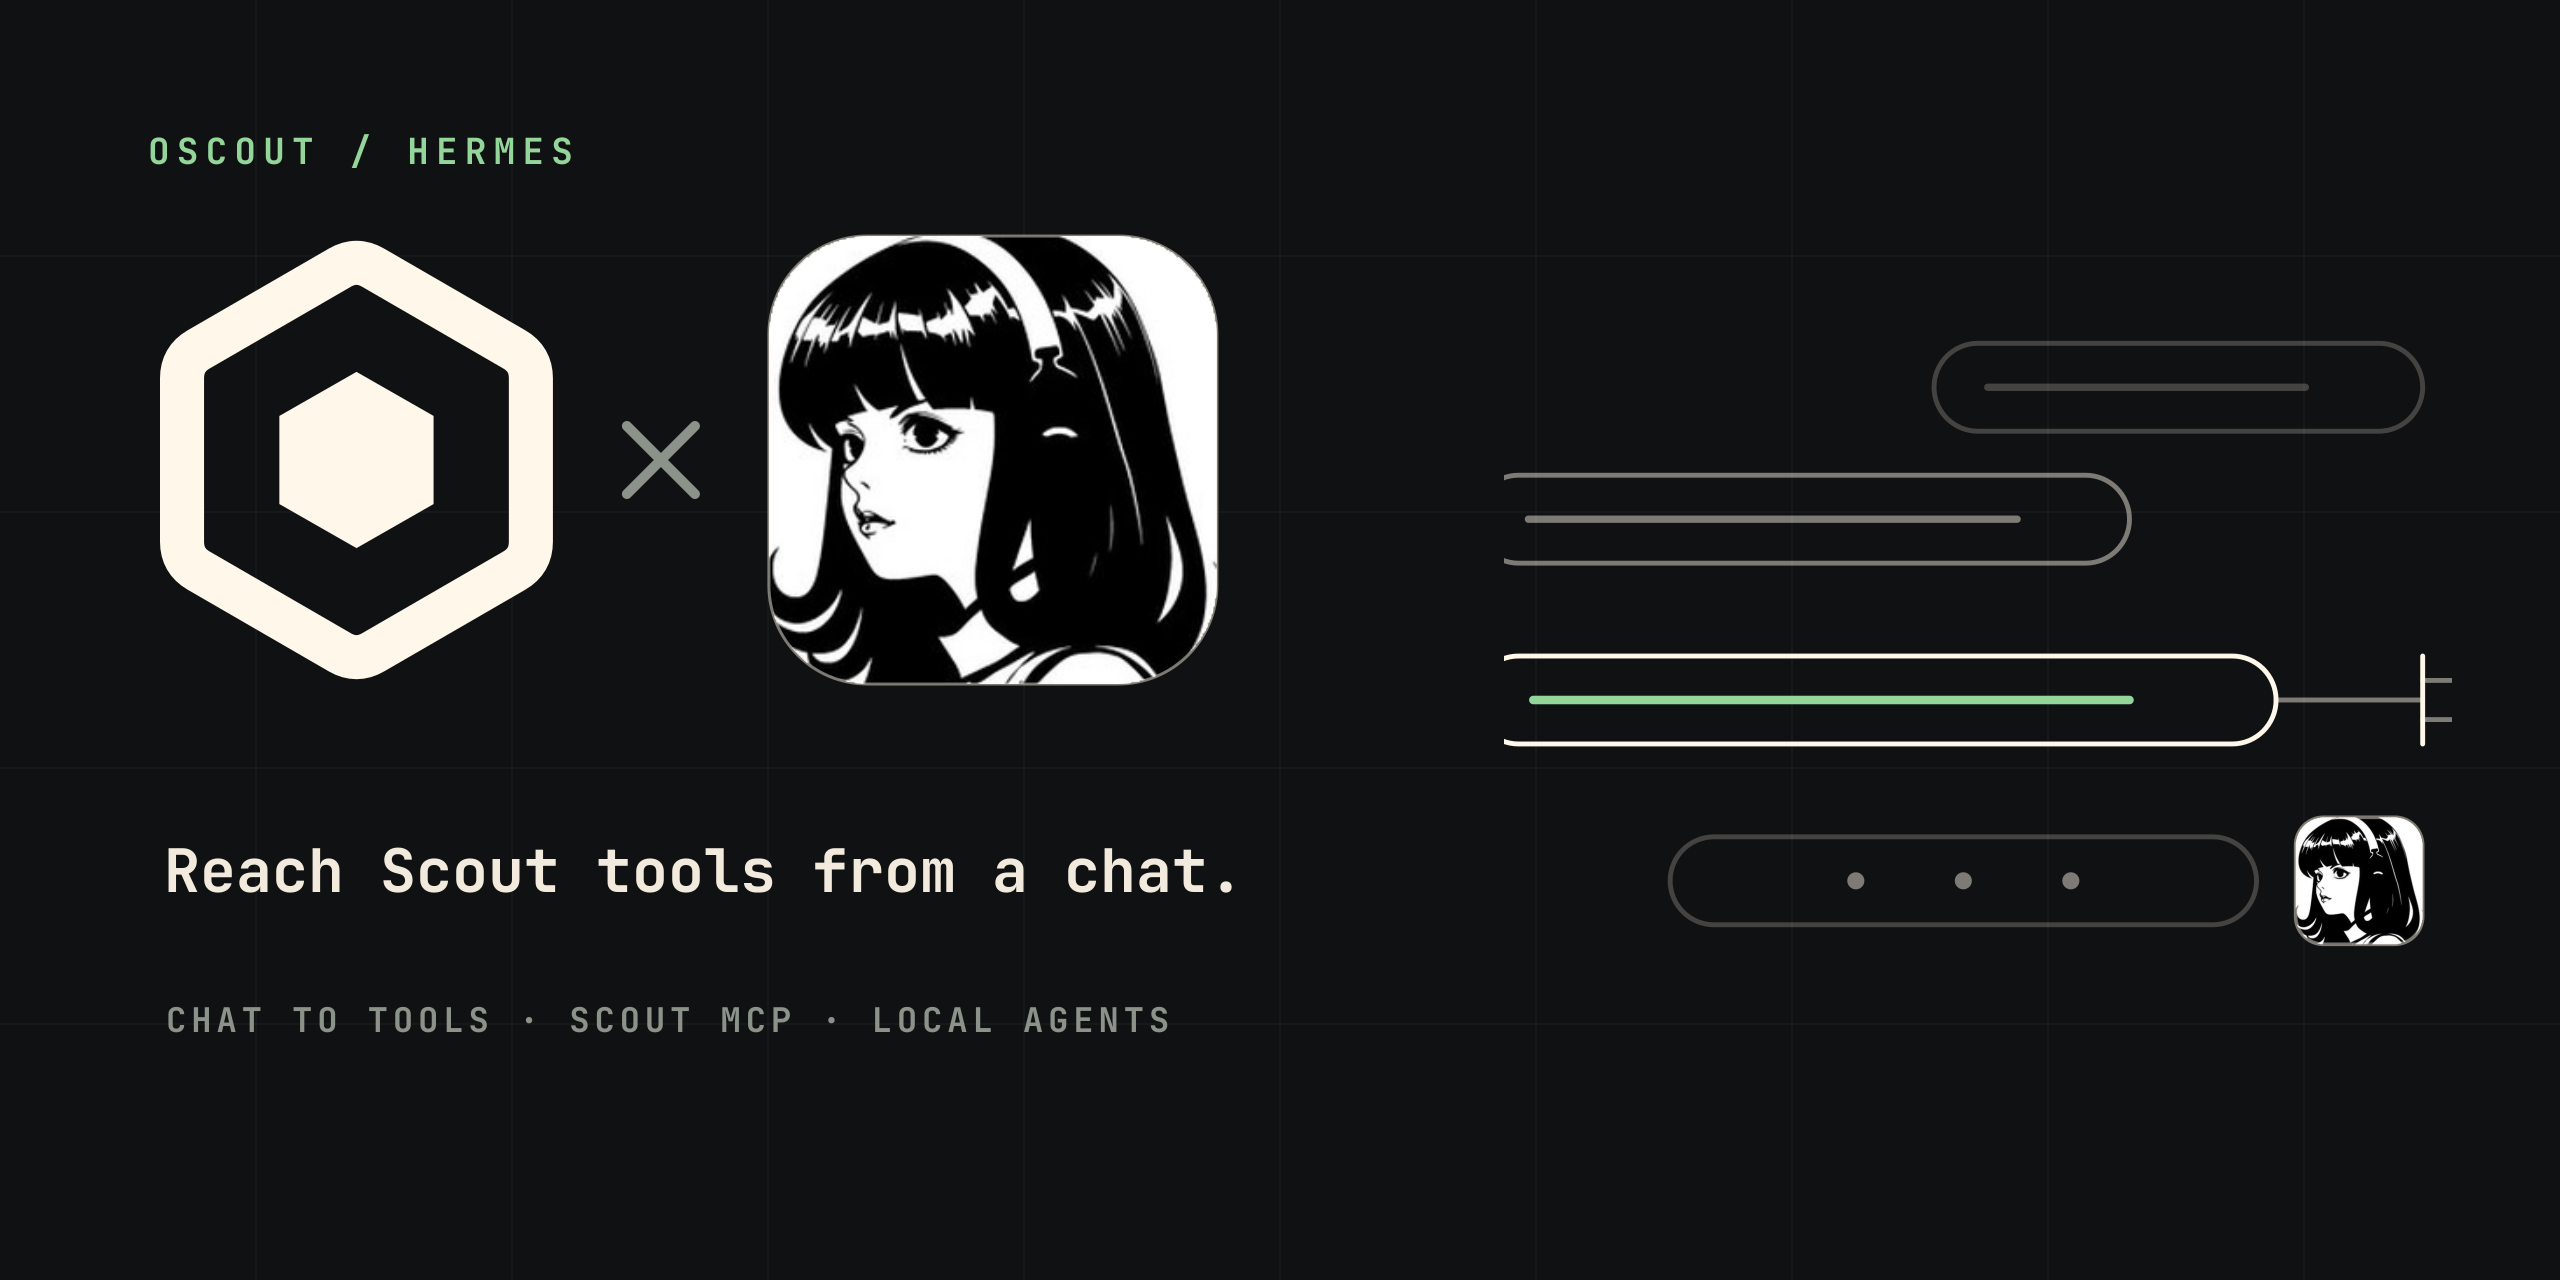
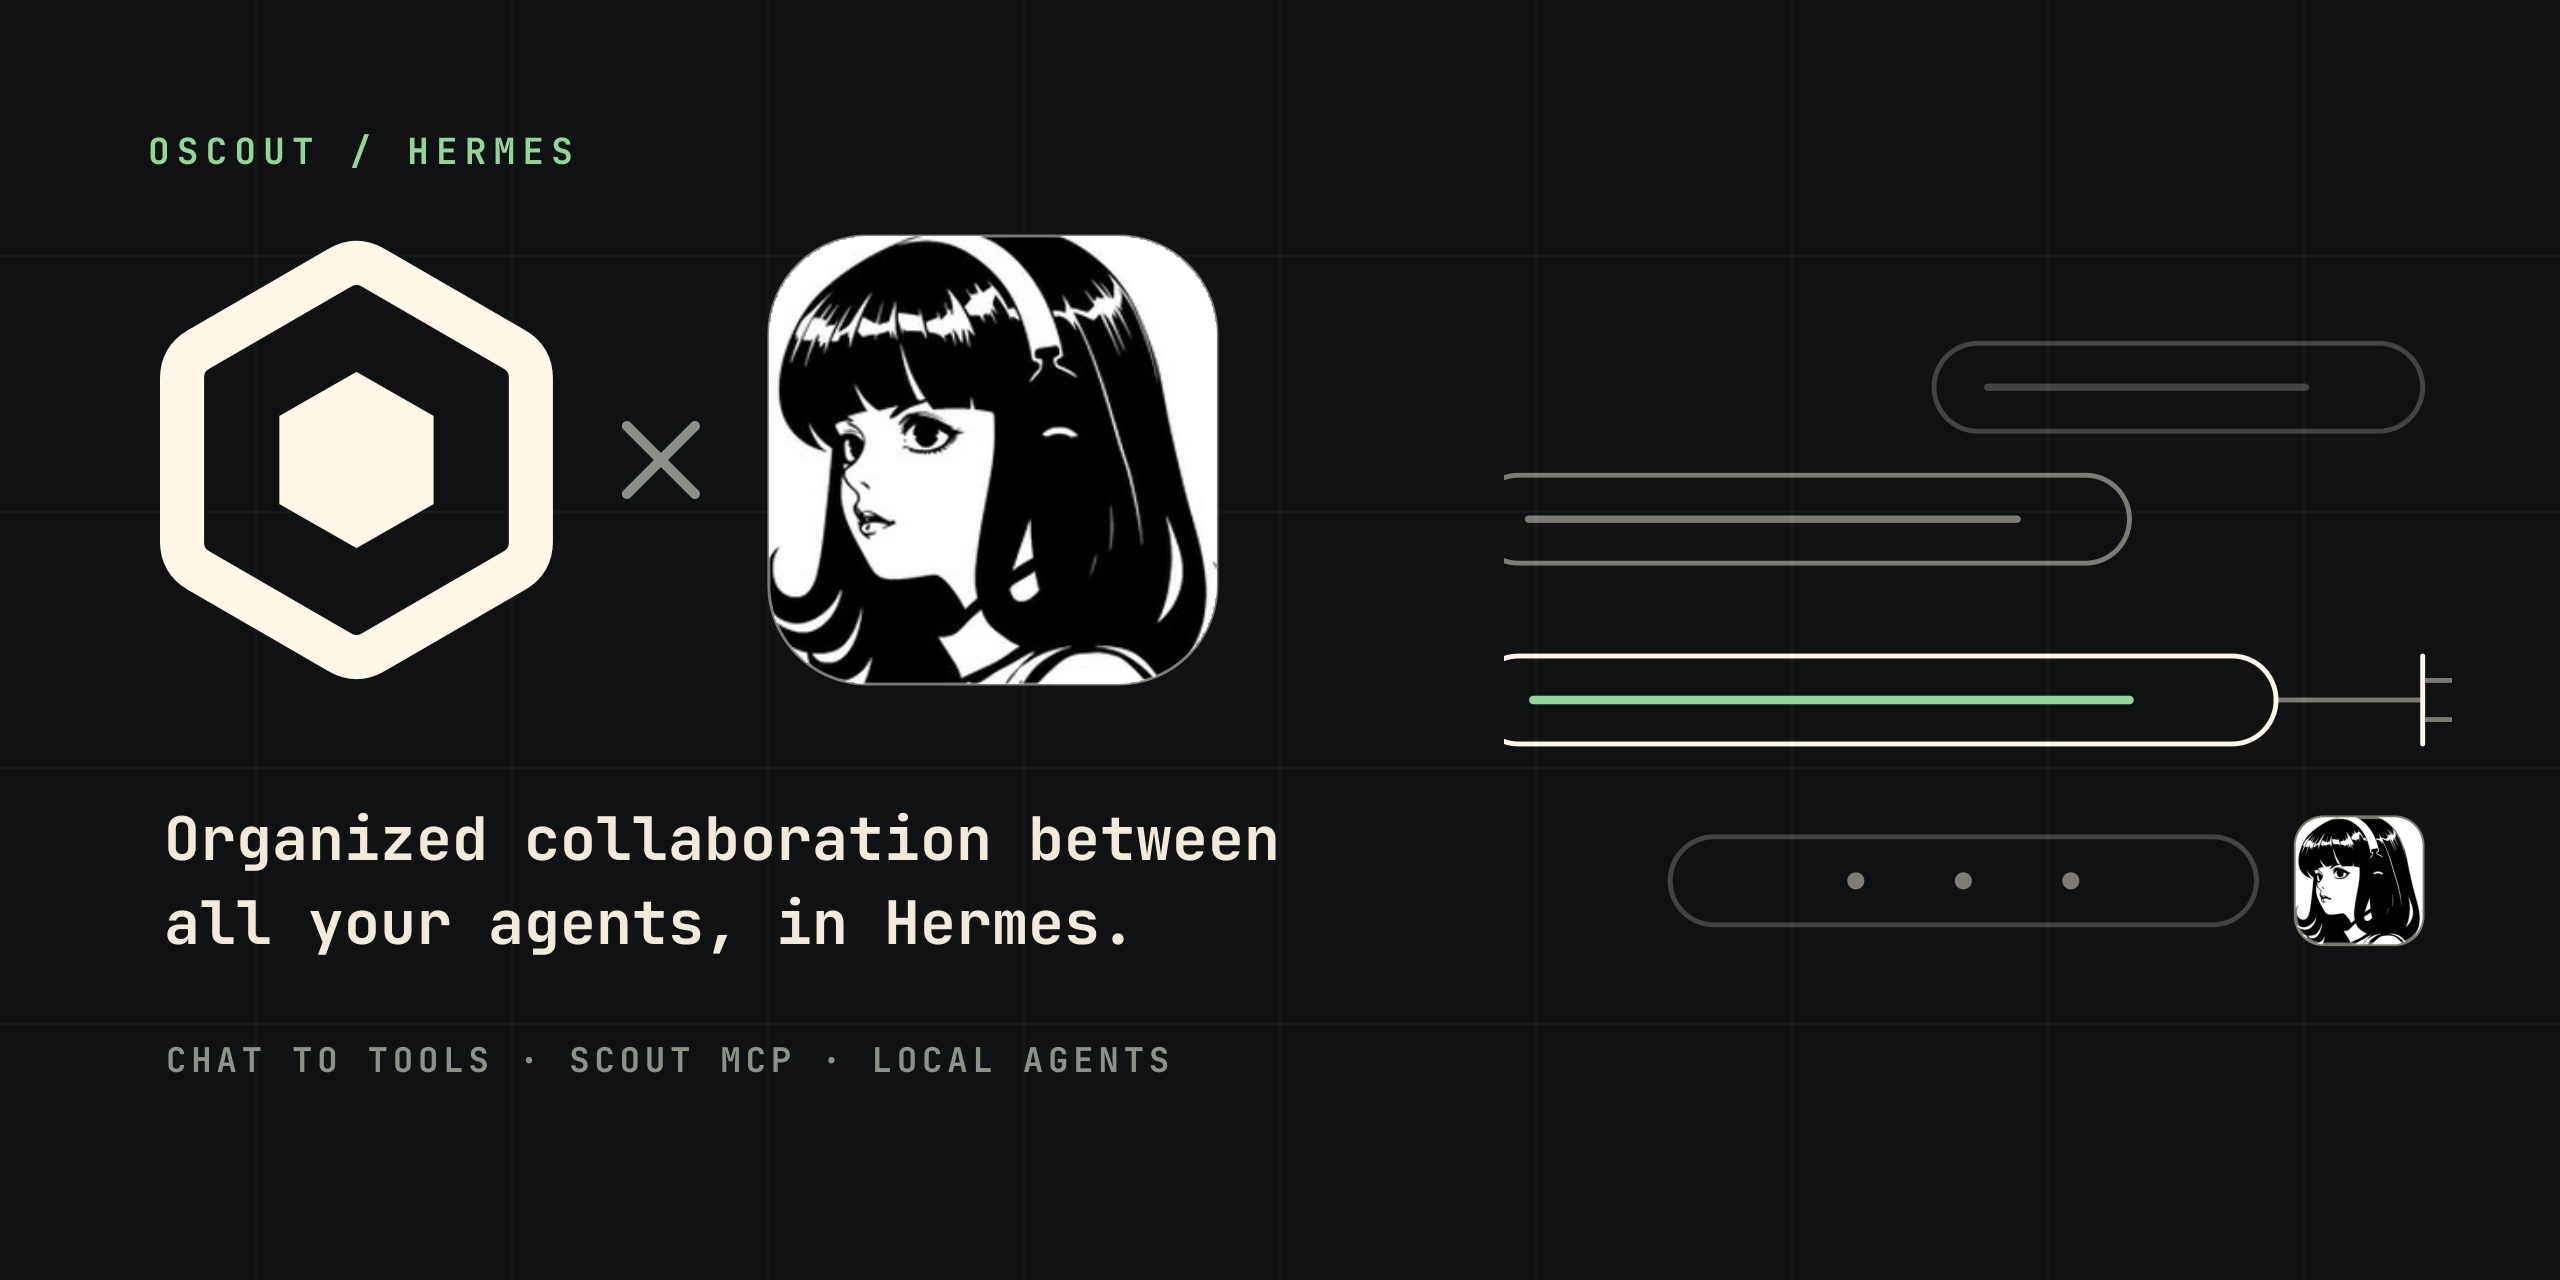
Social cards: one shared tagline for every integration
Every card now makes the same promise, "Organized collaboration between
all your agents, in <host>." ("on Android"), instead of a per-host
sentence. The manifest keeps only the host name, its preposition, the
points and the crop.

diff --git a/illustrations/README.md b/illustrations/README.md
@@ -16,7 +16,7 @@ bun run check
 
 ## Social cards
 
-`social.mjs` renders a GitHub social preview for each integration into `assets/social/{host}-scout-social.png` (2560 × 1280, matching `oscout/scout`'s card). The left column has the eyebrow, the co-brand lockup (Scout mark × host mark at one size, no wordmark), a tagline, and three points. The right panel is a crop of the host's own dark illustration around its entry, drawn by `render.mjs`. Text and the crop origin live under `social` in `manifest.json`.
+`social.mjs` renders a GitHub social preview for each integration into `assets/social/{host}-scout-social.png` (2560 × 1280, matching `oscout/scout`'s card). The left column has the eyebrow, the co-brand lockup (Scout mark × host mark at one size, no wordmark), the shared tagline ("Organized collaboration between all your agents, in <host>."), and three points. The right panel is a crop of the host's own dark illustration around its entry, drawn by `render.mjs`. The host name, its preposition ("on" for Android, "in" otherwise), the points and the crop origin live under `social` in `manifest.json`; the tagline itself is shared.
 
 ```bash
 bun run social:render
